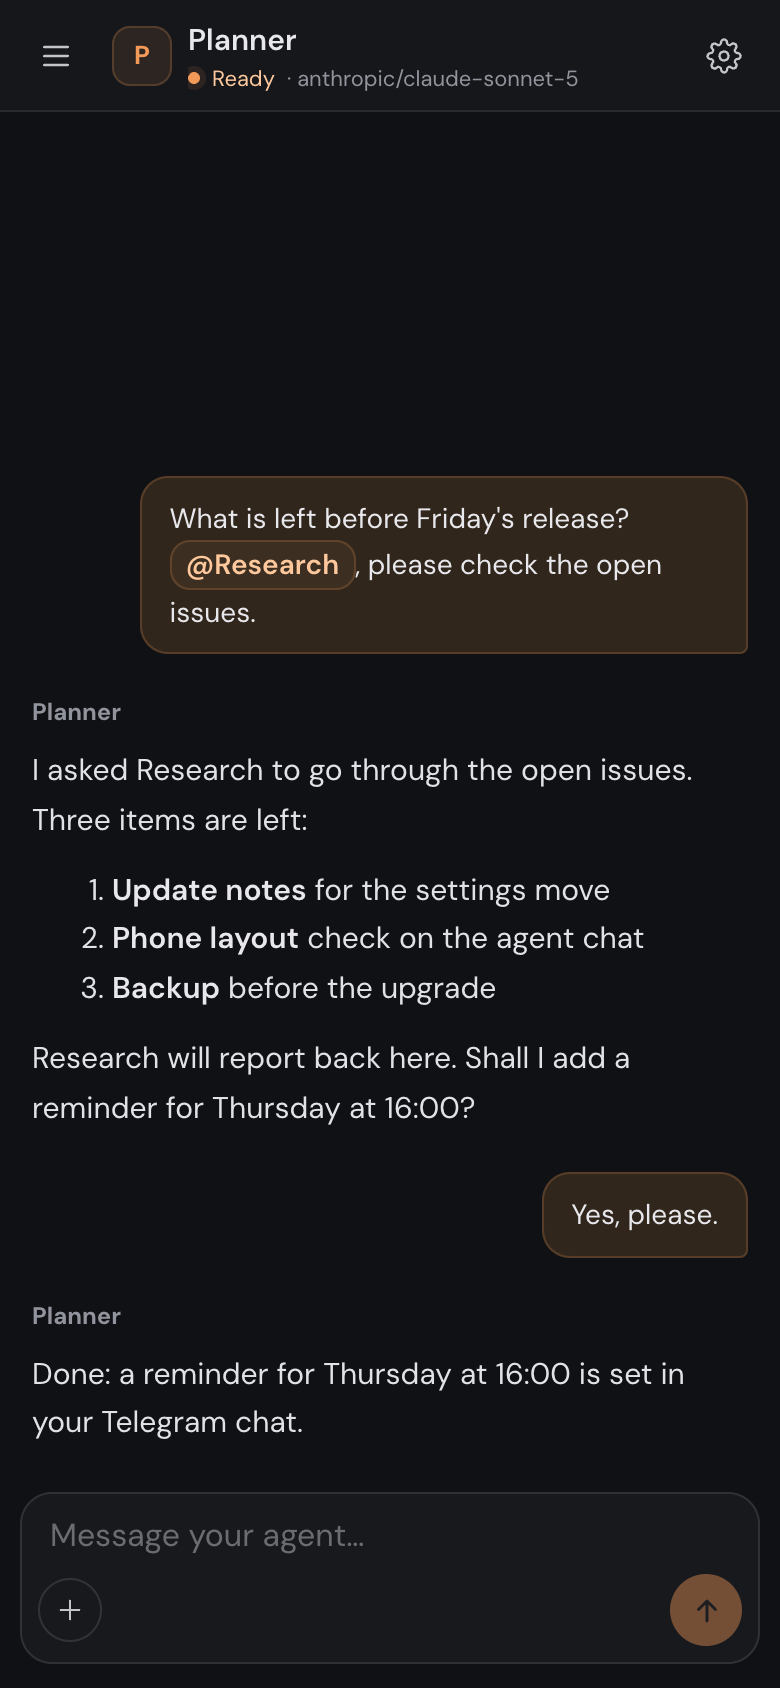
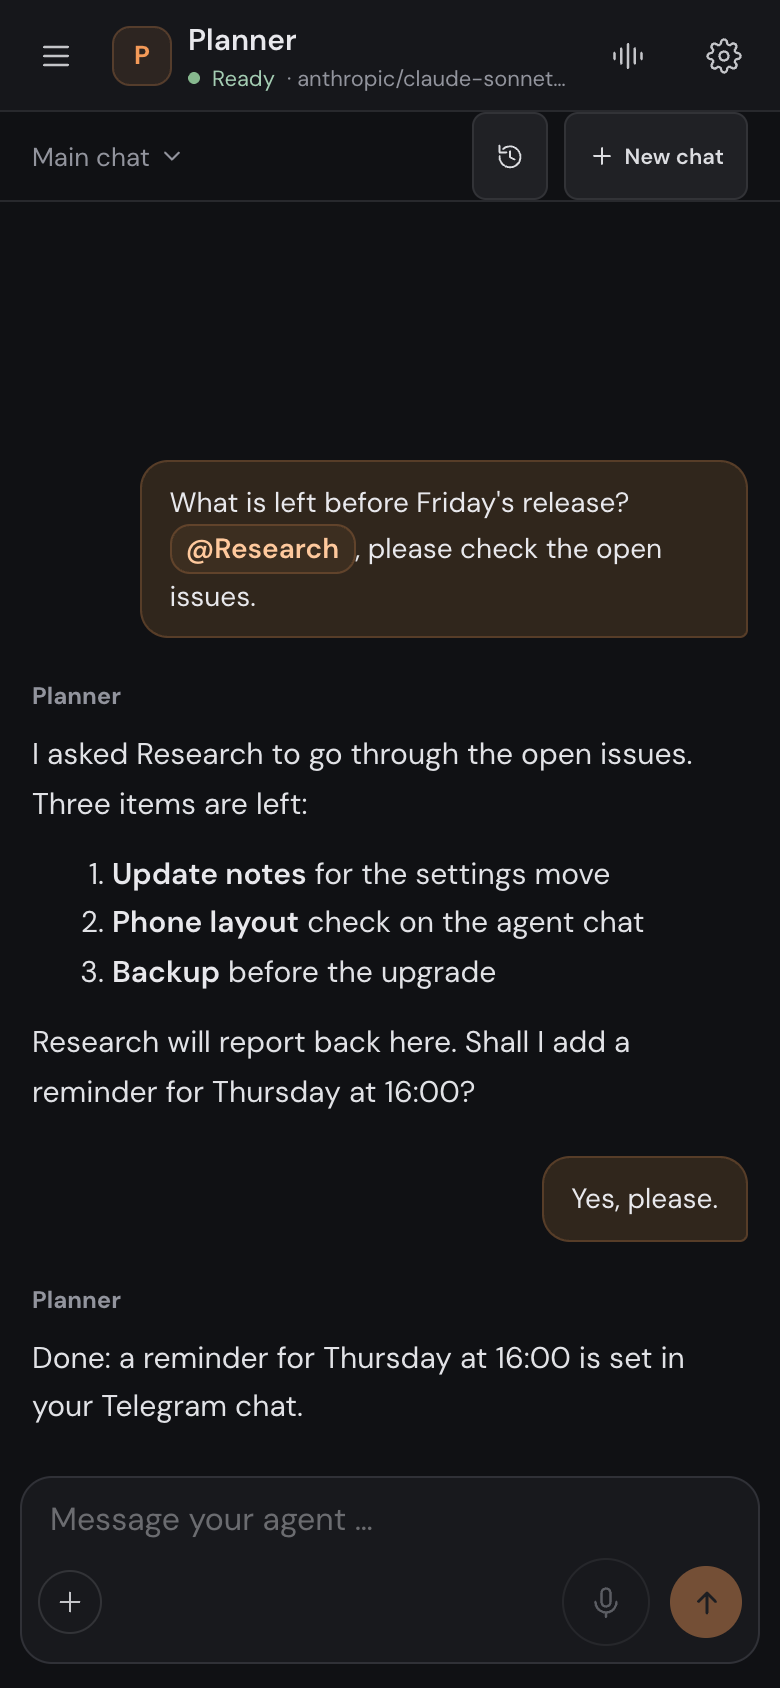
chore: refresh the agent chat screenshots with the current sidebar
The agents guide and the README's phone image still showed the agent chat from
before the redesign. A screenshot spec now builds both from synthetic data: the
lead with its permanent member, a second agent and three sessions on a desktop,
and the same chat on a phone.

diff --git a/tests/browser/assistant-chat-screenshots.spec.js b/tests/browser/assistant-chat-screenshots.spec.js
@@ -1,0 +1,119 @@
+// The agent chat screenshots of the agents guide and the README: the lead "Planner"
+// in its chat, on a desktop with its permanent member "Research", a second agent and
+// coding sessions in the sidebar, and on a phone. Normal runs only check the scene;
+// AGENTPIER_UPDATE_DOC_SCREENSHOTS=1 refreshes the images under docs/screenshots.
+import { test, expect } from "../helpers/browser-test.js";
+import { baseURL } from "../helpers/browser.js";
+import { chatAssistant, chatFixture } from "../helpers/assistant-chat-fixture.js";
+import { docScreenshot } from "../helpers/doc-screenshots.js";
+
+const model = { connectionId: "router", modelId: "anthropic/claude-sonnet-5" };
+const session = (id, name, tool, project, state) => ({
+  id,
+  name,
+  tool,
+  cwd: `/fixture/${project}`,
+  status: "running",
+  activity: { state },
+});
+
+// The Planner chat with its team and sessions, opened.
+async function openPlannerChat(page) {
+  await chatFixture(page, {
+    assistants: [
+      chatAssistant({ id: "planner", name: "Planner", model }),
+      chatAssistant({
+        id: "research",
+        name: "Research",
+        model,
+        teamMemberId: "research",
+        teamId: "t1",
+        parentAssistantId: "planner",
+        lifetime: "permanent",
+      }),
+      chatAssistant({ id: "writer", name: "Writer", model }),
+    ],
+    conversations: [{ id: "c1", assistantId: "planner", main: true }],
+    history: {
+      messages: [
+        {
+          id: "q1",
+          role: "user",
+          text: "What is left before Friday's release? @Research, please check the open issues.",
+        },
+        {
+          id: "a1",
+          role: "assistant",
+          text:
+            "I asked Research to go through the open issues. Three items are left:\n\n" +
+            "1. **Update notes** for the settings move\n" +
+            "2. **Phone layout** check on the agent chat\n" +
+            "3. **Backup** before the upgrade\n\n" +
+            "Research will report back here. Shall I add a reminder for Thursday at 16:00?",
+        },
+        { id: "q2", role: "user", text: "Yes, please." },
+        {
+          id: "a2",
+          role: "assistant",
+          text: "Done: a reminder for Thursday at 16:00 is set in your Telegram chat.",
+        },
+      ],
+      requests: [],
+      stale: false,
+    },
+  });
+  await page.route(/\/api\/state(\?|$)/, (route) =>
+    route.fulfill({
+      json: {
+        home: "/fixture",
+        tools: [
+          { id: "claude", name: "Claude Code", installed: true },
+          { id: "codex", name: "Codex", installed: true },
+          { id: "opencode", name: "OpenCode", installed: true },
+        ],
+        accounts: [],
+        sessions: [
+          session("website", "Codex · website", "codex", "website", "working"),
+          session("api", "Claude Code · api-server", "claude", "api-server", "idle"),
+          session("docs", "OpenCode · docs", "opencode", "docs", "waiting"),
+        ],
+        providerConnections: [],
+      },
+    }),
+  );
+  await page.goto(`${baseURL}/agents/planner/chats/c1`);
+  await expect(page.getByRole("main")).toContainText("Telegram chat");
+}
+
+test.describe("desktop", () => {
+  test.use({ viewport: { width: 1440, height: 900 } });
+
+  test("an agent chat with a permanent team member in the sidebar", async ({ page }) => {
+    await openPlannerChat(page);
+    const sidebar = page.locator(".sidebar");
+    await sidebar.getByRole("button", { name: "Show team members (1)" }).click();
+    await expect(sidebar).toContainText("Research");
+    await expect(sidebar).toContainText("api-server");
+    await page.mouse.move(0, 0);
+    await page.screenshot({
+      path: docScreenshot("docs/screenshots/agentpier-agent-chat-desktop.png"),
+    });
+  });
+});
+
+test.describe("phone", () => {
+  test.use({
+    viewport: { width: 390, height: 844 },
+    deviceScaleFactor: 2,
+    hasTouch: true,
+    isMobile: true,
+  });
+
+  test("the same agent chat on a phone", async ({ page }) => {
+    await openPlannerChat(page);
+    await expect(page.getByRole("button", { name: "Open navigation" })).toBeVisible();
+    await page.screenshot({
+      path: docScreenshot("docs/screenshots/agentpier-agent-chat-phone.png"),
+    });
+  });
+});
